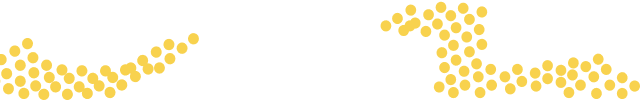
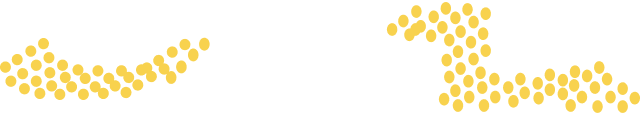
Hero-after-checking

Changed region(s): [[0.5938, 0.0, 1.0, 0.99], [0.0, 0.33, 0.3438, 1.0], [0.9062, 0.54, 0.9375, 0.57]]

diff --git a/src/sass/layouts/_hero.scss b/src/sass/layouts/_hero.scss
@@ -12,18 +12,26 @@
     display: none;
   }
 }
-.hero-section {
+.hero-container {
   position: relative;
   background-color: #84a278;
   width: 100%;
-  height: 453px;
-  background-image: url(../images/hero/Frame-mobile.png);
-  background-repeat: no-repeat;
-  background-position: bottom;
-  background-size: 100%;
+  height: 437px;
+  /*     background-image: url(../images/hero/Frame-mobile.png);
+    background-repeat: no-repeat;
+    background-position: bottom;
+    background-size: 100%; */
+  padding-left: 20px;
+  padding-right: 20px;
+  margin-top: 37px;
+}
+.hero-section {
+  display: flex;
+  justify-content: center;
+  margin: 0 auto;
 }
 
-@media screen and (min-device-pixel-ratio: 2) and (max-width: 767px),
+/* @media screen and (min-device-pixel-ratio: 2) and (max-width: 767px),
   screen and (min-resolution: 192dpi) and (max-width: 767px),
   screen and (min-resolution: 2dppx) and (max-width: 767px) {
   .hero-section {
@@ -43,7 +51,7 @@
   .hero-section {
     background-image: url(../images/hero/Frame-desctop@2x.png);
   }
-}
+} */
 
 .hero__title {
   max-width: 247px;
@@ -79,11 +87,11 @@
   &:hover {
     border: solid #0a8817;
   }
-    &:focus {
-      border: solid #0a8817;
-      color: #fcfcfc;
-    }
+  &:focus {
+    border: solid #0a8817;
+    color: #fcfcfc;
   }
+}
 
 .hero-button-list__link2 {
   font-weight: 600;
@@ -94,28 +102,46 @@
   text-align: center;
   text-decoration-line: underline;
   color: #f8d24e;
-    &:hover {
-        color: #0a8817;
-      }
-    
-      &:focus {
-        color: #fcfcfc;
-      }
+  &:hover {
+    color: #0a8817;
+  }
+
+  &:focus {
+    color: #fcfcfc;
+  }
 }
 .hero-ice-cream {
   position: absolute;
-  top: 39.5%;
+  top: 37.5%;
   left: 11%;
+}
+.Frame-picture {
+  position: absolute;
+  top: 88%;
 }
 
 @media screen and (min-width: 768px) {
   .hero-ice-cream {
-    top: -16%;
+    top: -21.5%;
     left: 47.5%;
   }
-  .hero-section {
-    height: 343px;
+  .hero-ice-cream-plate {
+    position: absolute;
+    top: 46.5%;
+    left: 3%;
+    width: 152px;
   }
+  .Frame-picture {
+    width: 768px;
+    left: 0;
+    top: 79%;
+  }
+  .hero-container {
+    height: 327px;
+    width: 768px;
+    margin-top: 88px;
+  }
+
   .hero-title-wrapper {
     display: flex;
     align-items: center;
@@ -151,6 +177,7 @@
     }
   }
   .hero__title {
+    margin-bottom: 20px;
     max-width: 181px;
     font-weight: 400;
     font-size: 18px;
@@ -165,40 +192,43 @@
 
   .hero-text {
     margin-left: 185px;
-    margin-top: 68px;
+    margin-top: 38px;
     max-width: 151px;
     font-weight: 400;
     font-size: 12px;
     line-height: 140%;
   }
-  .hero-ice-cream-plate {
-    position: absolute;
-    top: 180px;
-    left: 41.6px;
-    width: 152px;
-  }
+
   .hero-arrow-svg {
     margin-left: 180px;
     margin-top: 10px;
   }
 }
 @media screen and (min-width: 1200px) {
-  .hero-section {
-    height: 590px;
+  .hero-container {
+    height: 579px;
+    width: 1200px;
+    margin-top: 84px;
+  }
+  .hero-title-wrapper {
+    margin-top: 20px;
   }
   .hero-ice-cream {
-    top: -74px;
-  }
-  .ice-cream-img {
+    top: -72px;
   }
   .hero-ice-cream-plate {
     width: 225px;
-    top: 300px;
-    left: 17px;
+    top: 50%;
+    left: 2%;
+  }
+  .Frame-picture {
+    min-width: 1200px;
+   
+    top: 33%;
   }
   .hero-text {
     margin-left: 239px;
-    margin-top: 150px;
+    margin-top: 109px;
     max-width: 200px;
     font-size: 14px;
   }

diff --git a/src/partials/hero.html b/src/partials/hero.html
@@ -36,6 +36,34 @@
         height="10px"
       ></use>
     </svg>
+    <picture class="Frame-picture">
+      <source
+        srcset="
+          ./images/hero/Frame-desctop.png    1x,
+          ./images/hero/Frame-desctop@2x.png 2x
+        "
+        media="(min-width: 1200px)"
+        type="image/png"
+      />
+      <source
+        srcset="
+          ./images/hero/Frame-tablet.png    1x,
+          ./images/hero/Frame-tablet@2x.png 2x
+        "
+        media="(min-width: 768px)"
+        type="image/png"
+      />
+
+      <source
+        srcset="
+          ./images/hero/Frame-mobile.png    1x,
+          ./images/hero/Frame-mobile@2x.png 2x
+        "
+        media="(max-width: 767px)"
+        type="image/png"
+      />
+      <img class="Frame-img" src="./images/hero/Frame-mobile.png" alt="Frame" />
+    </picture>
     <picture class="hero-ice-cream">
       <source
         srcset="
